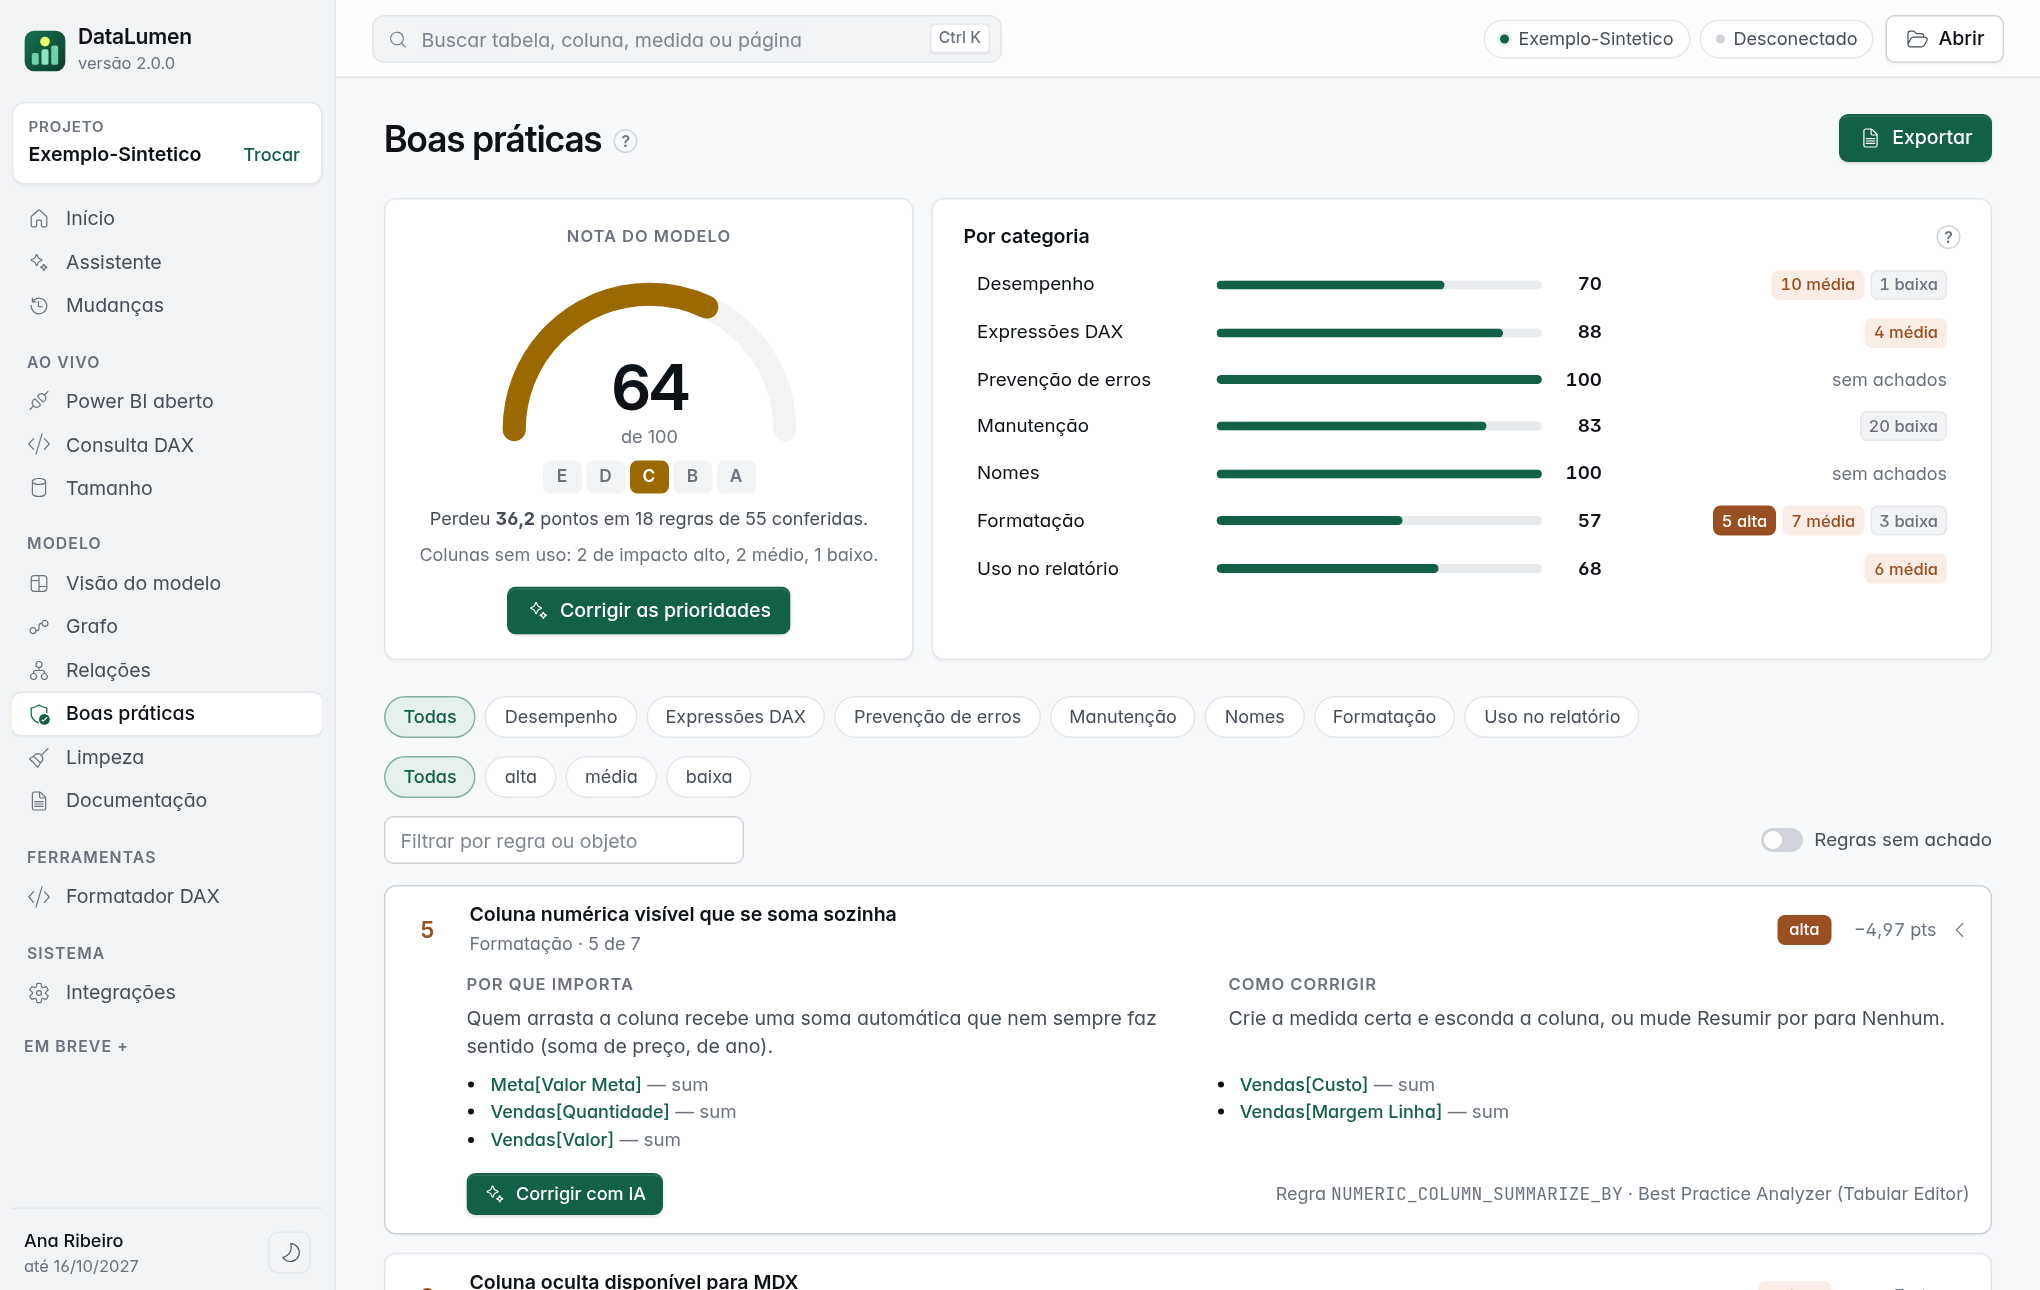
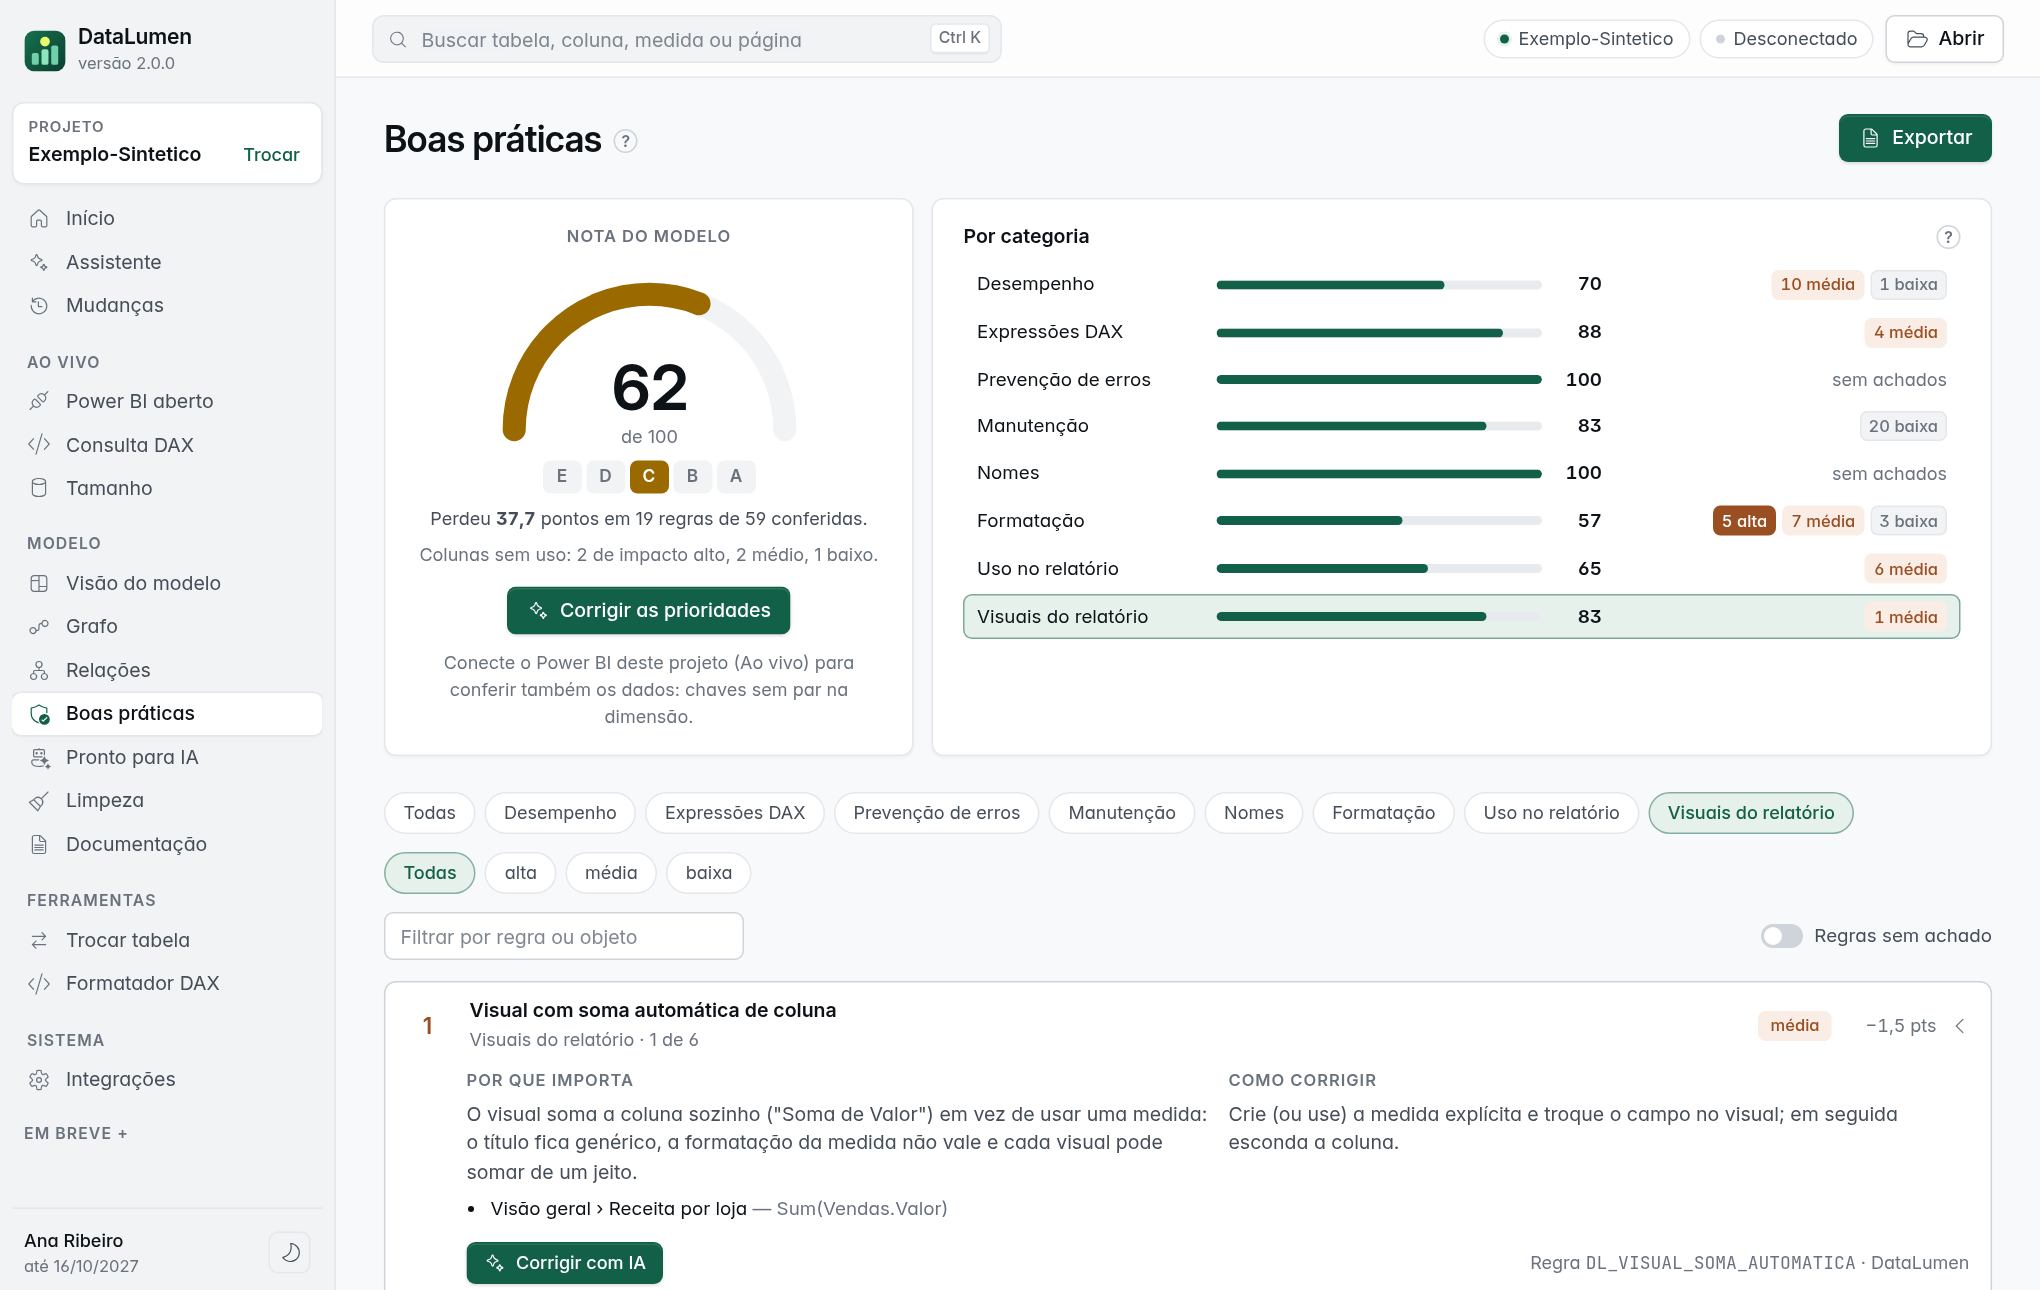
DataLumen: prévia com troca de tabela e Copilot

diff --git a/datalumen/previa/index.html b/datalumen/previa/index.html
@@ -6,7 +6,7 @@ h1{font-size:24px}figure{margin:0 0 28px}img{width:100%;border-radius:10px;borde
 <figure><a href="pv-2-inicio-escuro.png"><img src="pv-2-inicio-escuro.png" alt=""></a><figcaption>Início no tema escuro</figcaption></figure>
 <figure><a href="pv-3-assistente.png"><img src="pv-3-assistente.png" alt=""></a><figcaption>Assistente: o que mudou em linguagem de Power BI, Desfazer, Power BI ao vivo e Escola</figcaption></figure>
 <figure><a href="pv-4-ficha.png"><img src="pv-4-ficha.png" alt=""></a><figcaption>Ficha do objeto: o que quebra se mudar, quem usa, onde aparece, ações com IA</figcaption></figure>
-<figure><a href="pv-5-boas.png"><img src="pv-5-boas.png" alt=""></a><figcaption>Boas práticas: Corrigir as prioridades e Corrigir com IA por regra</figcaption></figure>
+<figure><a href="pv-5-boas.png"><img src="pv-5-boas.png" alt=""></a><figcaption>Boas práticas: nova categoria Visuais do relatório (soma automática, fora da página, sobrepostos, nome padrão) e chaves sem par com o Power BI aberto</figcaption></figure>
 <figure><a href="pv-6-limpeza.png"><img src="pv-6-limpeza.png" alt=""></a><figcaption>Limpeza: Limpar com IA (com confirmação)</figcaption></figure>
 <figure><a href="pv-7-ambiente.png"><img src="pv-7-ambiente.png" alt=""></a><figcaption>Preparar ambiente: acha o que está errado e conserta num clique</figcaption></figure>
 <figure><a href="pv-8-integracoes.png"><img src="pv-8-integracoes.png" alt=""></a><figcaption>Integrações</figcaption></figure>
@@ -14,4 +14,7 @@ h1{font-size:24px}figure{margin:0 0 28px}img{width:100%;border-radius:10px;borde
 <figure><a href="pv-10-doc.png"><img src="pv-10-doc.png" alt=""></a><figcaption>Documentação: Documentar o que falta com IA, tipos em português, nomes abrem a ficha</figcaption></figure>
 <figure><a href="pv-11-mudancas.png"><img src="pv-11-mudancas.png" alt=""></a><figcaption>Mudanças: Revisar com IA antes de salvar a versão</figcaption></figure>
 <figure><a href="pv-12-tamanho.png"><img src="pv-12-tamanho.png" alt=""></a><figcaption>Tamanho do modelo: Resolver com IA em cada coluna pesada</figcaption></figure>
+<figure><a href="pv-13-troca.png"><img src="pv-13-troca.png" alt=""></a><figcaption>Trocar tabela: Excel (Import) → SQL em DirectQuery, com colunas casadas, relações, dados e o aviso do que quebra</figcaption></figure>
+<figure><a href="pv-14-troca-previa.png"><img src="pv-14-troca-previa.png" alt=""></a><figcaption>Trocar tabela: nome final e prévia do que vai mudar</figcaption></figure>
+<figure><a href="pv-15-copilot.png"><img src="pv-15-copilot.png" alt=""></a><figcaption>Pronto para Copilot (Prévia): nota de prontidão para IA com Corrigir com IA</figcaption></figure>
 </main></body></html>
